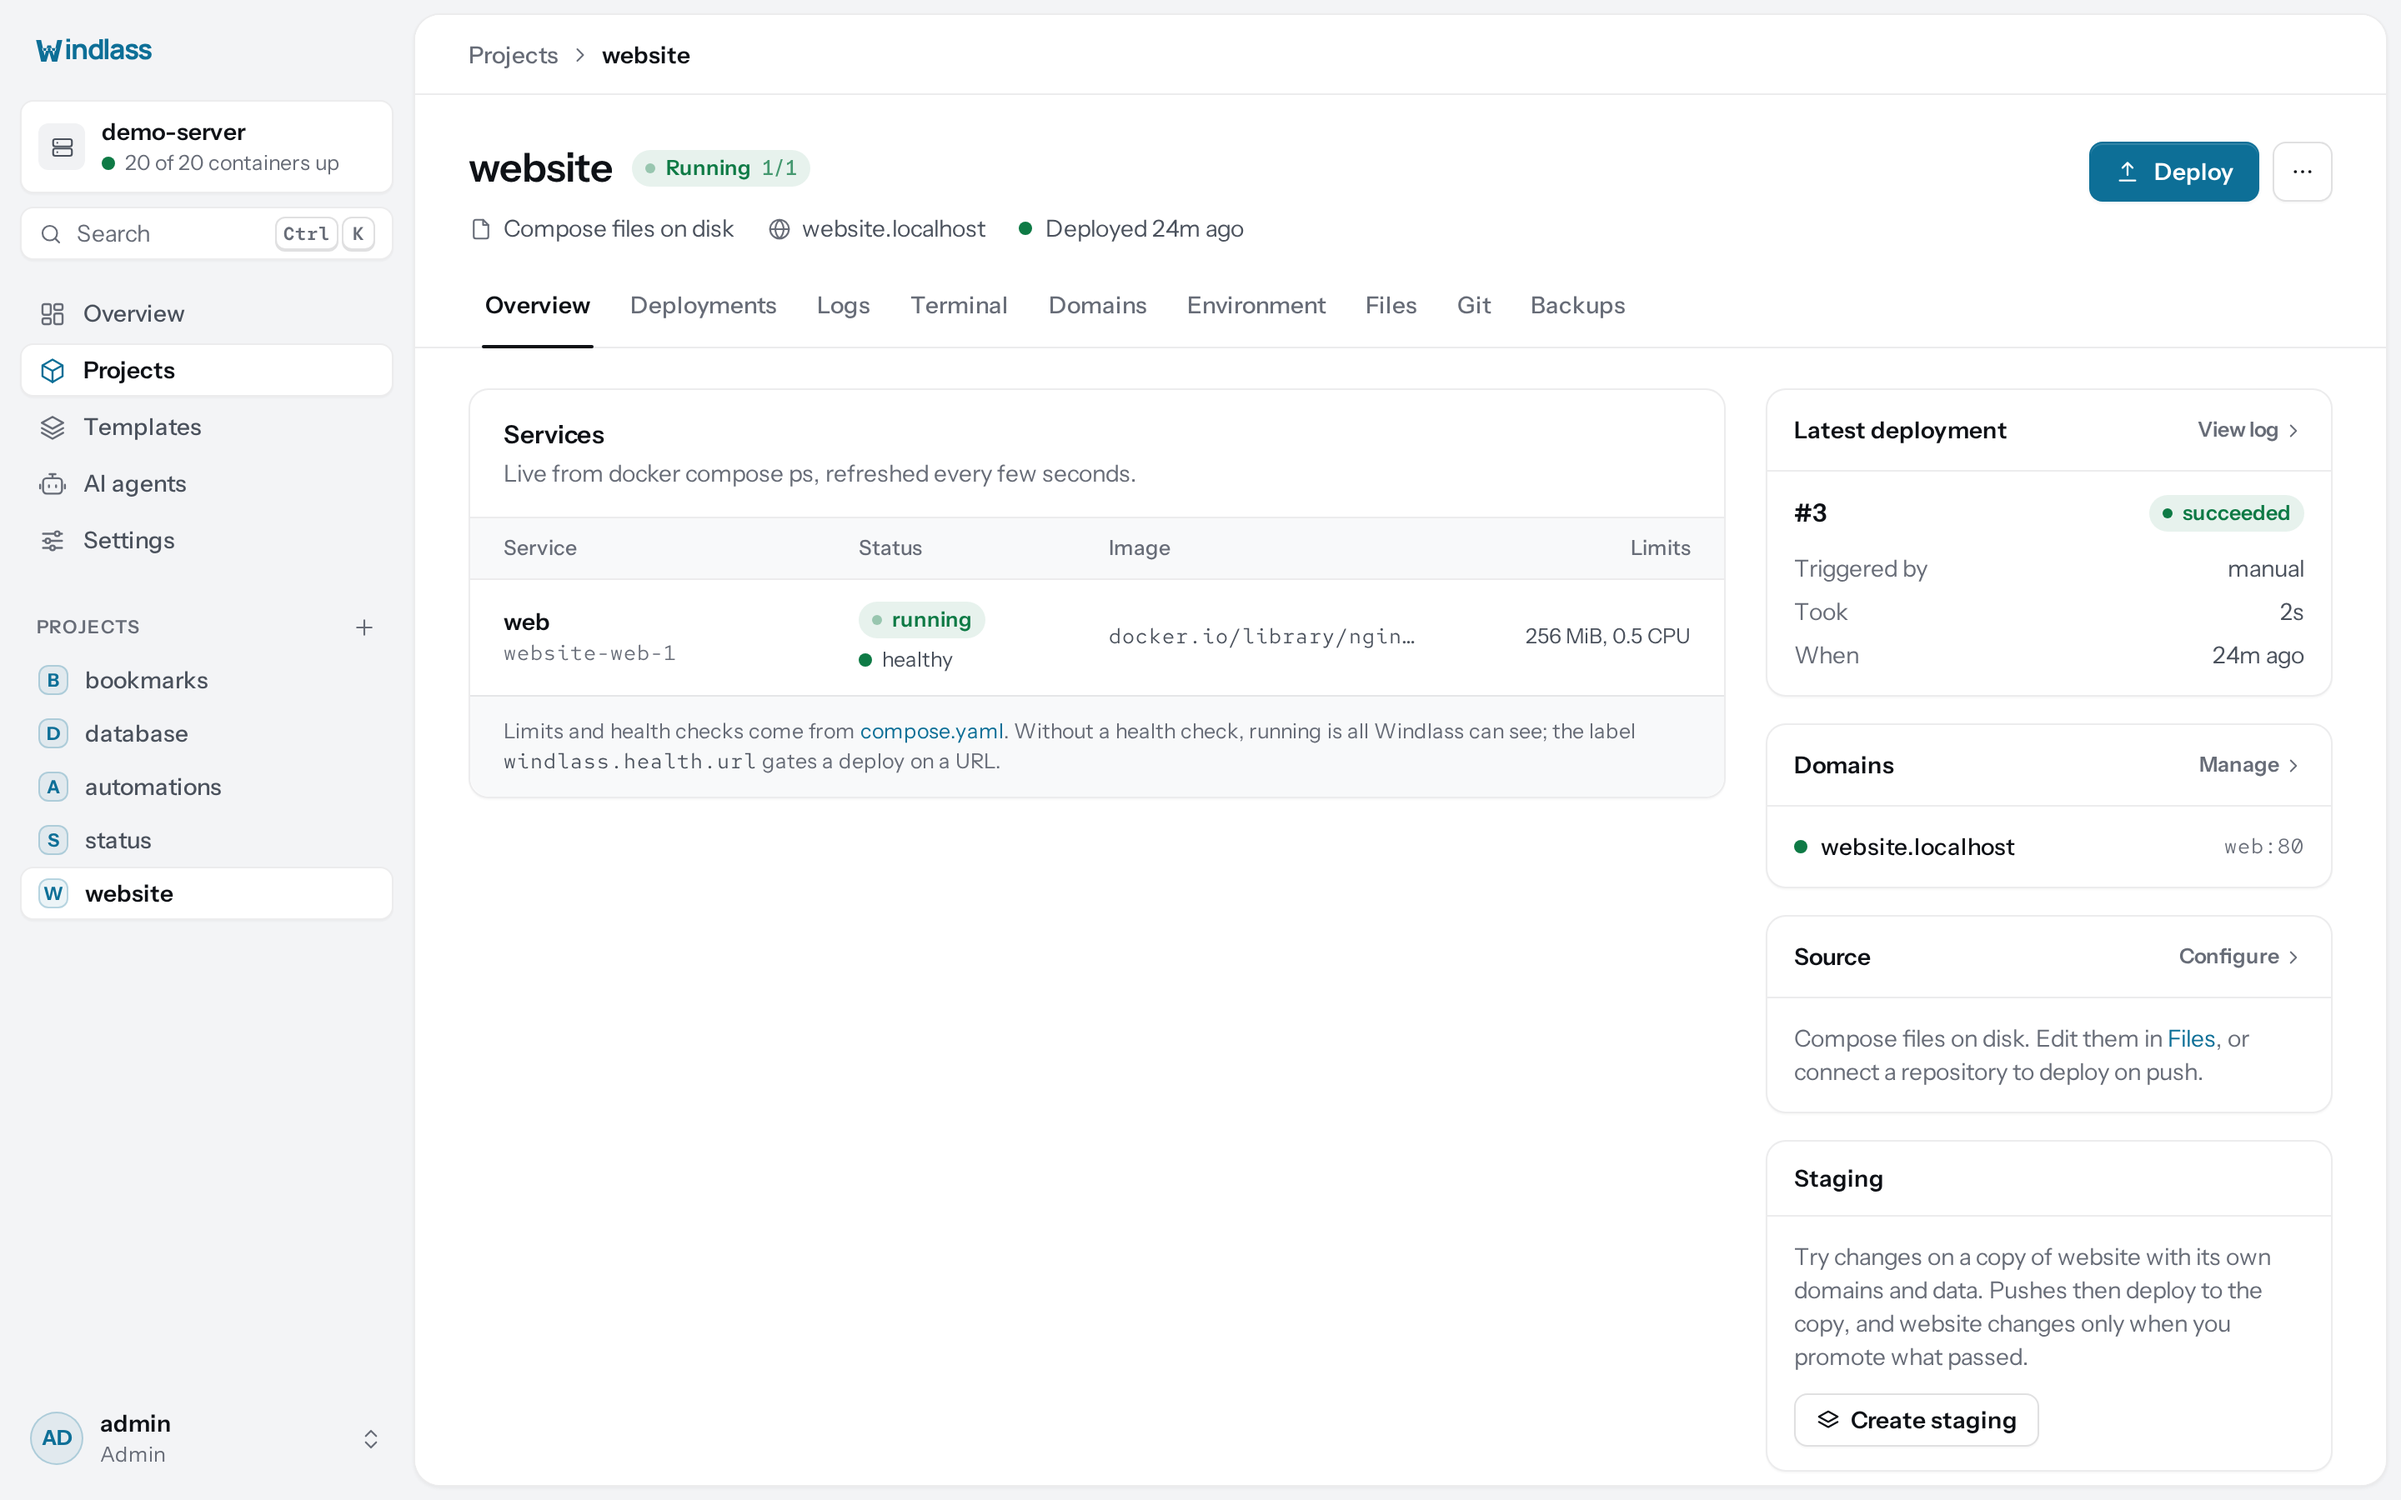
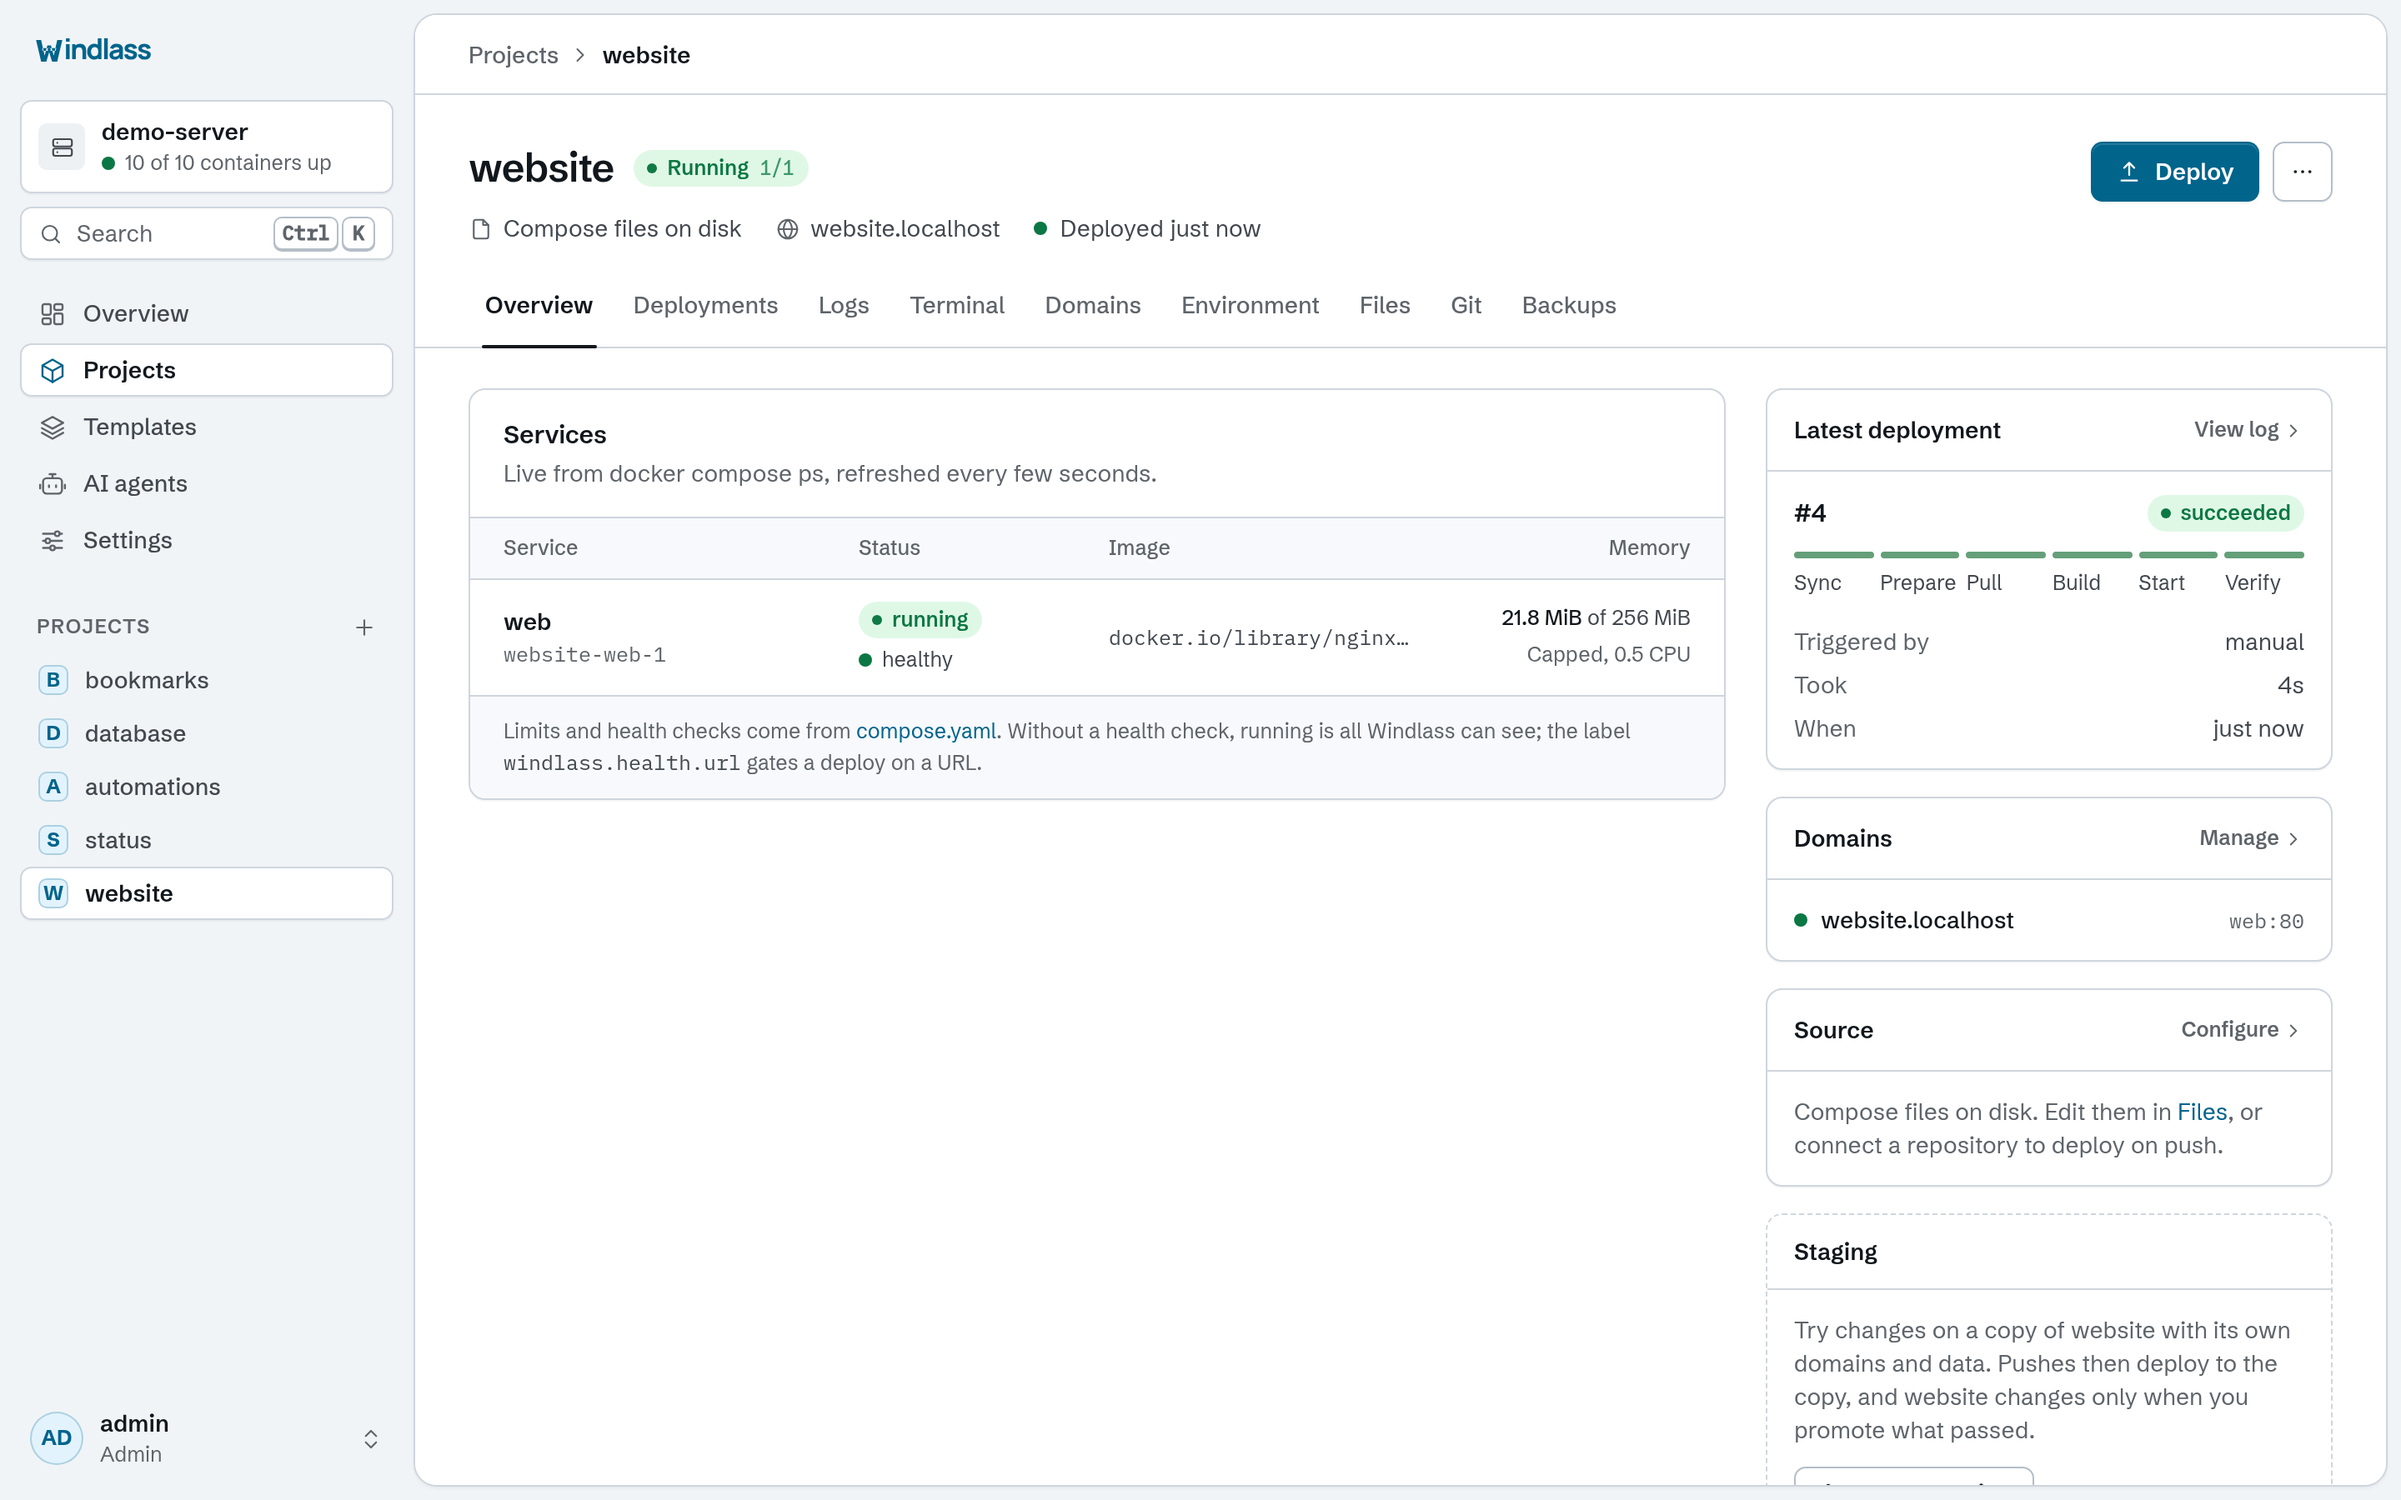
Reshoot the docs screenshots and deploy.gif for v0.63
The v0.63 UI made the v0.62 set out of date. Same dataset and settings as
before; the README notes what is stubbed (host name, container count, the
AI agents endpoint) and the four Needs you rows.

diff --git a/docs/screenshots/README.md b/docs/screenshots/README.md
@@ -17,11 +17,13 @@ view is shot in both themes so pages can pair them to the reader's preference.
 
 These are real deployments, not mockups: five Compose projects running nginx, PostgreSQL,
 Uptime Kuma, linkding and n8n, with Caddy in front and three domains routed.
-The AI agents shot is the one exception: cropped to the page, with the panel domain answer
-stubbed to `windlass.example.com` so it shows the HTTPS state.
+Two answers are stubbed in the browser: the host name reads `demo-server`, and containers
+on the capture machine that are not part of the dataset are left out of the sidebar count.
+The AI agents shot is also cropped to the page, with its endpoint answer stubbed to
+`https://windlass.example.com/api/v1/mcp` so it shows the HTTPS state.
 
-The set was last reshot for v0.62, on 13/11/2026. The dashboard shows the Needs you list with
-two real rows: two of the five projects have volumes and no backup schedule.
+The set was last reshot for v0.63, on 22/11/2026. The dashboard shows the Needs you list with
+four real rows: four of the five projects have volumes and no backup schedule.
 
 ## Recordings
 
@@ -29,7 +31,7 @@ two real rows: two of the five projects have volumes and no backup schedule.
 | --- | --- |
 | Creating a project, saving its Compose file, deploying it and watching the log until nginx reports healthy | `deploy.gif` |
 
-Recorded on a local instance at 1280x900 and scaled to 960 px wide. The script asserts the deploy
+Recorded on a local instance (v0.63, 22/11/2026) at 1280x900 and scaled to 960 px wide. The script asserts the deploy
 log reports success, the service shows running and healthy, and the container answers HTTP 200
 before the recording is kept.
 
